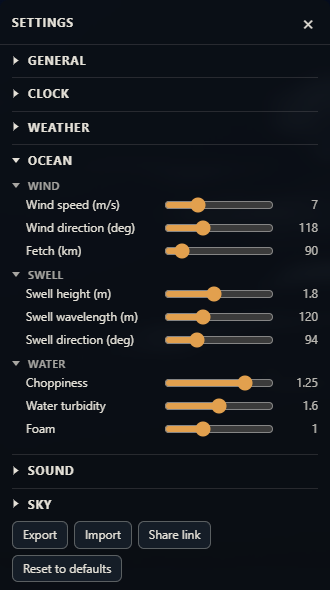
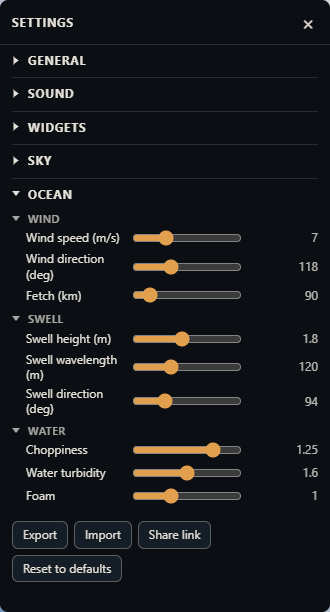
Refresh settings screenshots in documentation
Update existing settings screenshots and add compass and rain screenshots to their README sections.

diff --git a/README.md b/README.md
@@ -94,6 +94,8 @@ The clock shows the actual current time. In Date and time and Time lapse modes i
 
 ### Compass
 
+![Compass display settings](docs/settings-compass.png)
+
 The compass is on by default and sits along the top edge. It can move to the bottom. **Compass (°)** aims the view, and **Tilt (°)** sets the pitch. **Show tilt** puts that pitch on the compass. Dragging the view updates both. **N** shows or hides it. On a placed sky, north is geographic: north of the equator the default view looks south, so straight ahead reads 180. A static sky treats straight ahead as north.
 
 ### Weather
@@ -142,6 +144,8 @@ Clouds are two independently moving layers, a broken low cumulus and a fibrous h
 In Dynamic / real-world mode every cloud control follows a deterministic, location-dependent weather pattern. Synoptic systems evolve over several simulated days, with persistent nighttime cloud cover, daytime convective growth, changing cloud bases and density, plausible low/high-level wind shear, and faster high-level winds. Date and time reproduces the same conditions for the same place and instant, while Time lapse advances the weather with the simulated sky. This is a weather model rather than a live observation feed. The manual cloud controls stay visible but cannot be edited while Dynamic is selected, and the previous manual values return when Static is selected again. Cloud motion is accumulated a little at a time, so a change in wind or the periodic wave reset does not jump the whole layer.
 
 ### Rain
+
+![Rain weather, surface, and storm settings](docs/settings-rain.png)
 
 Rain is the last group inside Sky. It is off until you turn it on. Weather sets the switch, the intensity, the style, and **Follow weather card**. Surface sets ripples and splashes. Storm sets lightning. Intensity runs from a few drops through drizzle, light, moderate, heavy, and violent rain. The streaks slant with the ocean wind. Near the camera, drops are long falling streaks that hit the water and leave a dent, a ring, and a short splash. Farther out they thin into a mist toward the horizon, and the surface roughens so the glitter path widens.
 
